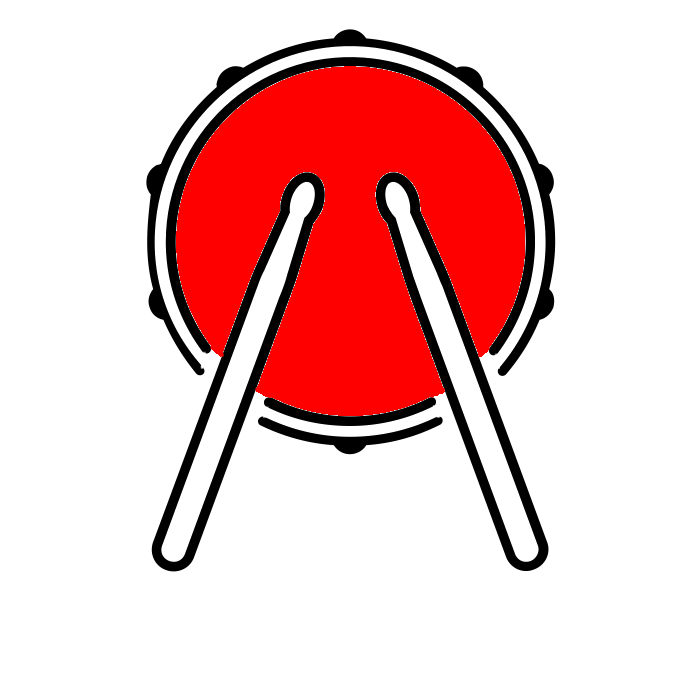
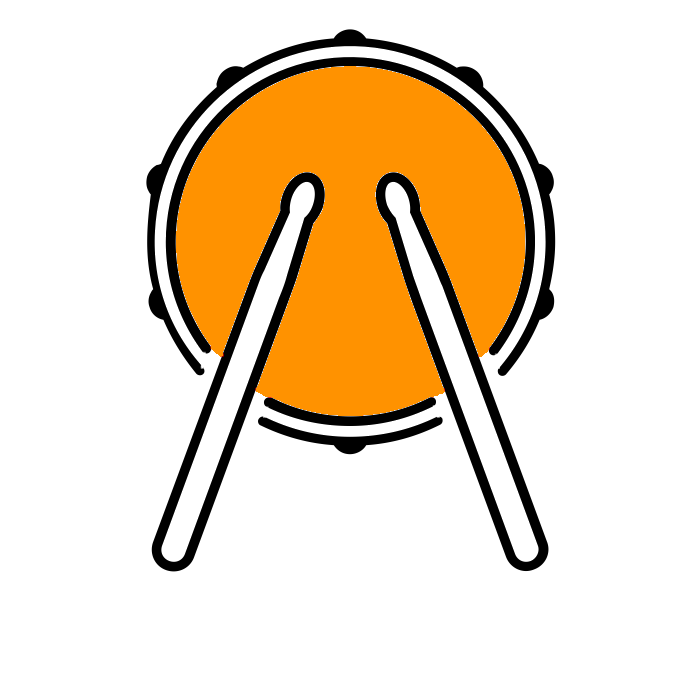
Psystems for bottom corners. Snares are now orange

Changed region(s): [[0.24, 0.09, 0.75, 0.6]]

diff --git a/engine/graphics.py b/engine/graphics.py
@@ -328,33 +328,57 @@ class MeasureDisplay(InstructionGroup):
 class HitParticleDisplay(InstructionGroup):
     def __init__(self, pos, size):
         super(HitParticleDisplay, self).__init__()
-        self.psystems = []
-        self.hit_times = [-1]
+        # particle systems on active measure
+        self.m_psystems = []
+        self.m_hit_times = [-1]
         for i in range(kNumGems):
-            ps = ParticleSystem('../particle/particle.pex')
+            ps = ParticleSystem('../particle/particle1.pex')
             ps.emitter_x = pos[0] + (i + 0.5) * kNumGems ** -1 * size[0]
             ps.emitter_y = pos[1] + .5*size[1]
-            self.psystems.append(ps)
-            self.hit_times.append(-1)
+            self.m_psystems.append(ps)
+            self.m_hit_times.append(-1)
+
+        # particle systems on bottom corners of screen
+        self.bl = ParticleSystem('../particle/particle2.pex')
+        self.bl.emitter_x = 0
+        self.bl.emitter_y = 0
+        self.bl.emit_angle = np.pi*4**-1
+        self.br = ParticleSystem('../particle/particle2.pex')
+        self.br.emitter_x = kWindowWidth-1
+        self.br.emitter_y = 0
+        self.br.emit_angle = 3*np.pi*4**-1
+        self.b_hit_time = -1
+
 
     def puff(self, i):
-        if i < 0 or i > len(self.psystems):
+        if i < 0 or i > len(self.m_psystems):
             print "warning: ps puff out of bounds"
             return
-        self.psystems[i].start()
-        self.hit_times[i] = 0
+        self.m_psystems[i].start()
+        self.m_hit_times[i] = 0
+        self.bl.start()
+        self.br.start()
+        self.b_hit_time = 0
 
     def install_particle_systems(self, widget):
-        for ps in self.psystems:
+        for ps in self.m_psystems:
             widget.add_widget(ps)
+        widget.add_widget(self.bl)
+        widget.add_widget(self.br)
 
     def on_update(self, dt):
-        for i in range(len(self.hit_times)):
-            if self.hit_times[i] >= 0:
-                self.hit_times[i] += dt
-            if self.hit_times[i] >= kHitAnimDur:
-                self.hit_times[i] = -1
-                self.psystems[i].stop()
+        for i in range(len(self.m_hit_times)):
+            if self.m_hit_times[i] >= 0:
+                self.m_hit_times[i] += dt
+            if self.m_hit_times[i] >= kHitAnimDur:
+                self.m_hit_times[i] = -1
+                self.m_psystems[i].stop()
+        if self.b_hit_time >= 0:
+            self.b_hit_time += dt
+        if self.b_hit_time >= kHitAnimDur:
+            self.b_hit_time = -1
+            self.bl.stop()
+            self.br.stop()
 
 
 # Displays and controls all game elements: Nowbar, Buttons, BarLines, Gems.
